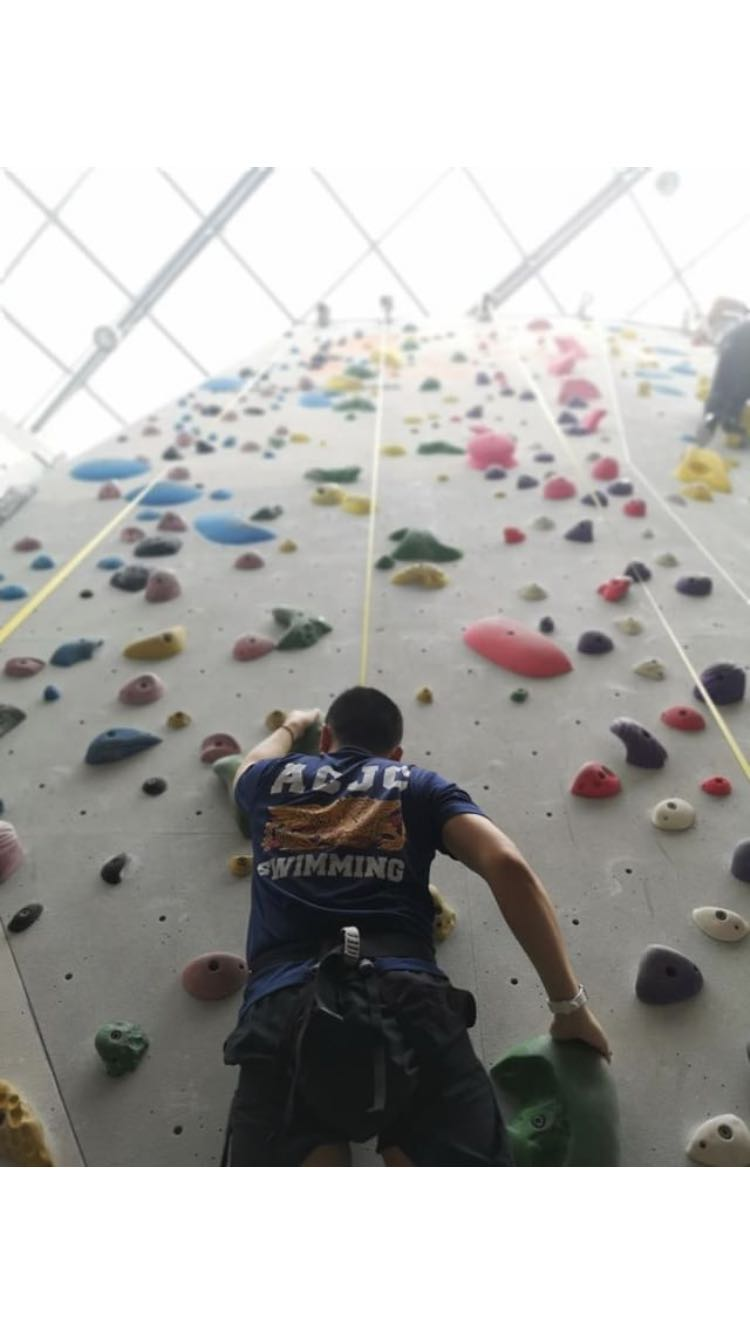
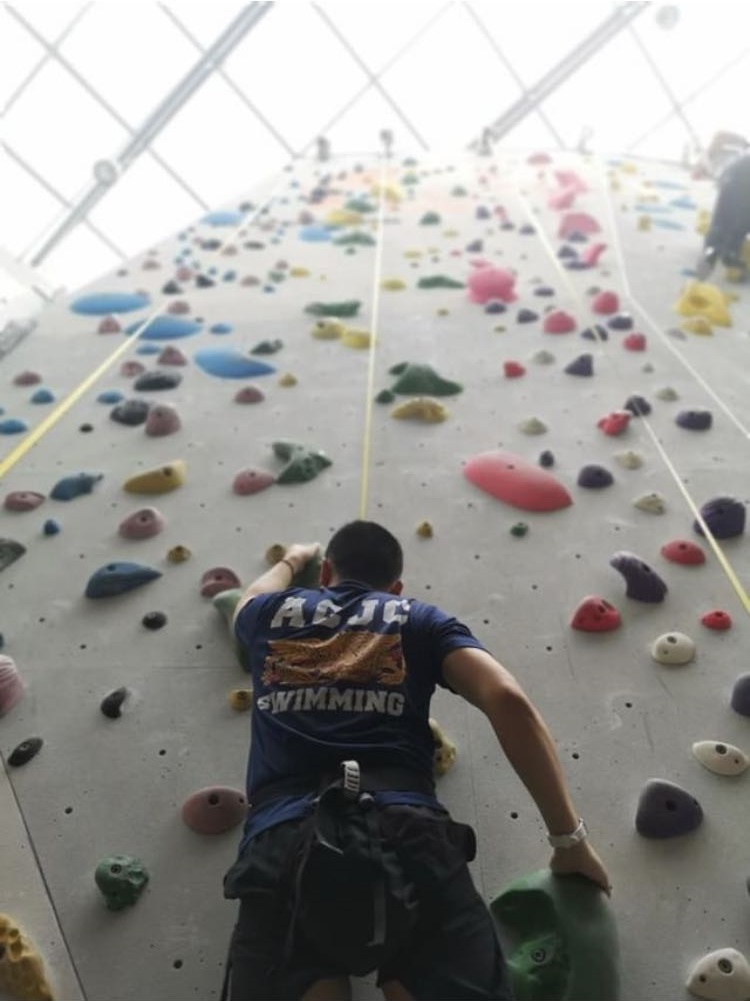
size update

diff --git a/about/AboutMe.html b/about/AboutMe.html
@@ -196,14 +196,14 @@
             In high school, I (accidentally) joined the competitive swim team without prior swim experience. Yet I became the boy's team captain after one year of training, and competed in the 57th 
             nationals as a finalist - it was indeed difficult to train alongside with other professional swimmers, but I enjoyed it somehow (see how obvious my goggle tan was below). 
         </p>
-        <p><img src="/images/tan.png" style="max-height: 120px;">
+        <p><img src="/images/tan.png" style="max-height: 150px;">
         </p>
         <p>
            The experience of staying in different environements, studying, living and working with people from different backgrounds has changed me to be more open, and accepting. I am more intrigued 
            to explore, to try, and to discover things that I have not done before or experienced before. After all, life is a process.  
         </p>
-        <img src="/images/climb.png" style="max-height: 120px;">
-        <img src="/images/bld.png" style="max-height: 120px;">
+        <img src="/images/climb.png" style="max-height: 180px;">
+        <img src="/images/bld.png" style="max-height: 180px;">
         <p>
             Having said that, I am thankful for my parents, for it is them who allowed all these wonderful things happen to me, and I am looking forward to bring good results to them in the end.
         </p>
